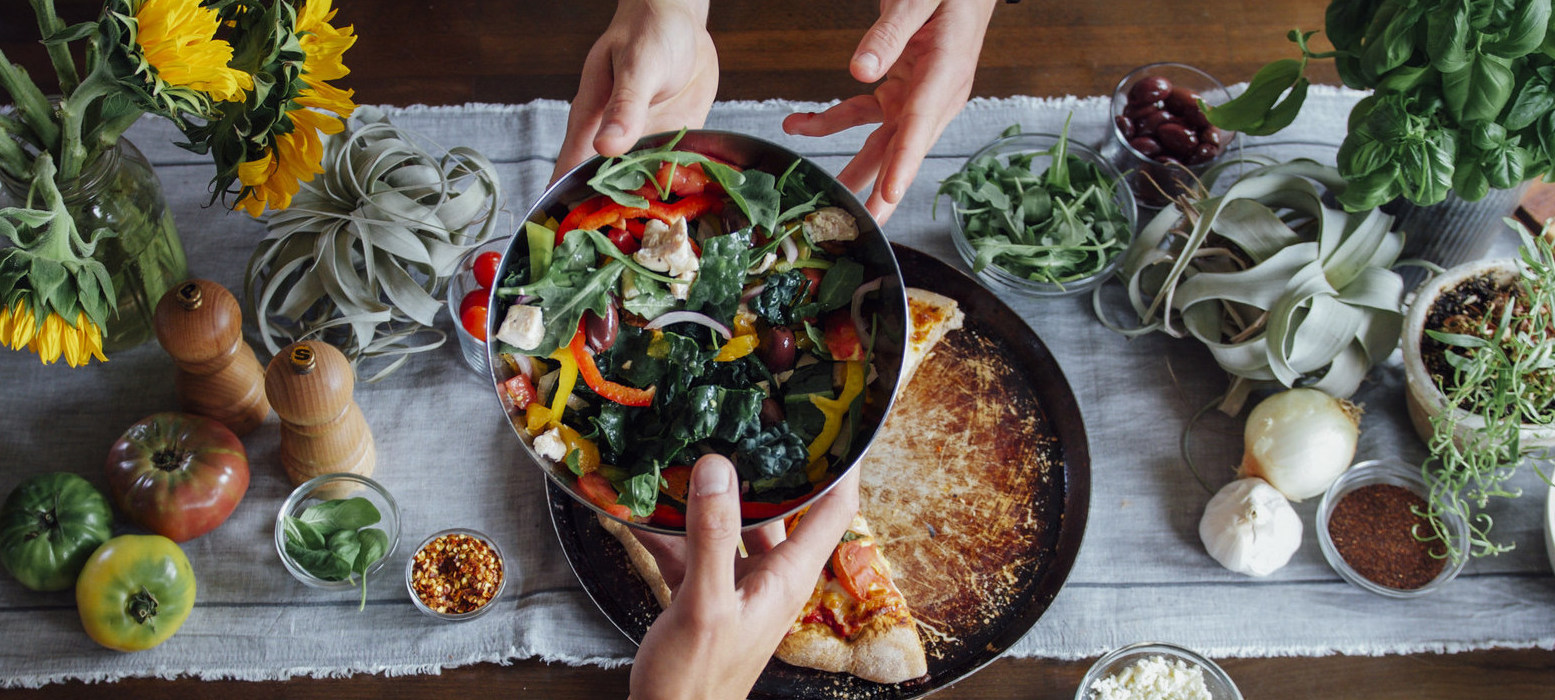
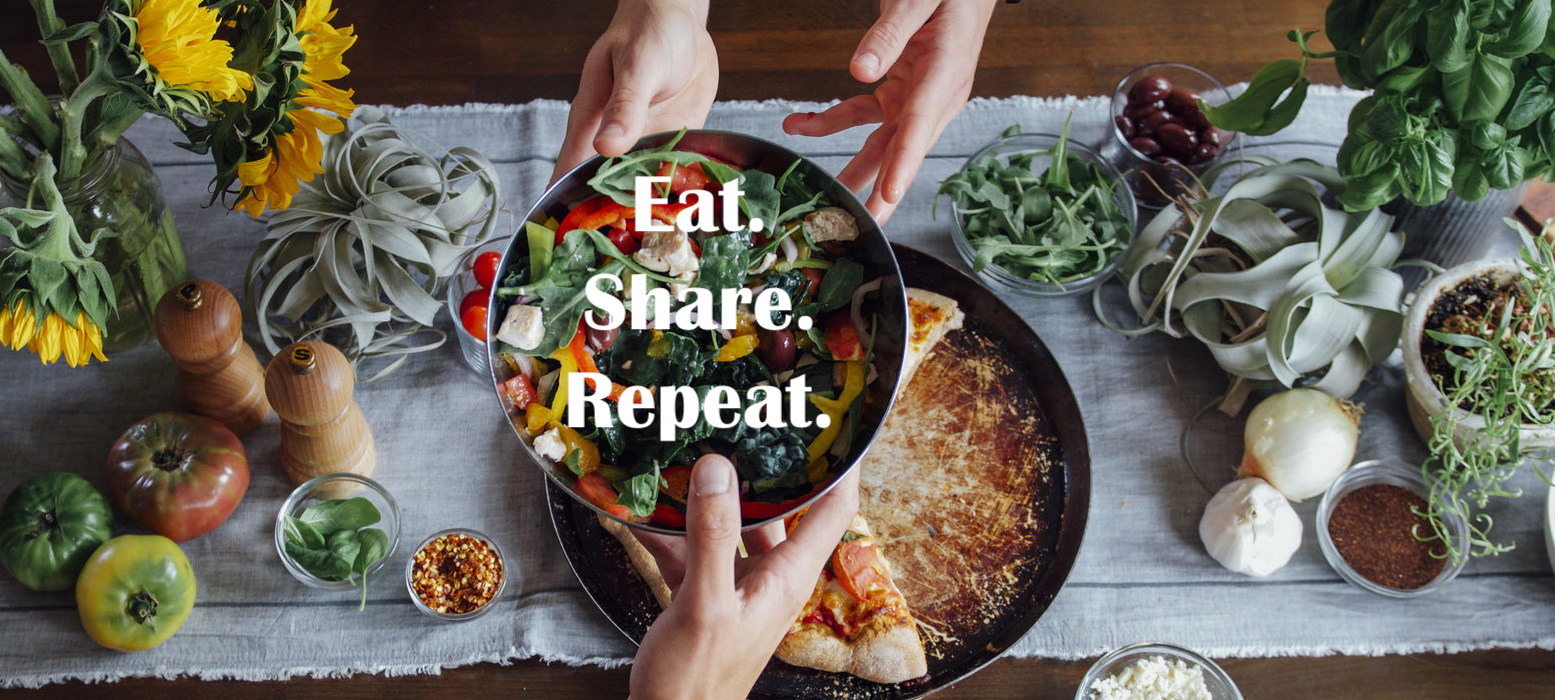
added text to Index page, modified image

Changed region(s): [[0.3395, 0.51, 0.5556, 0.63], [0.3704, 0.39, 0.5248, 0.48], [0.4013, 0.24, 0.4939, 0.33]]

diff --git a/app/assets/stylesheets/application.scss b/app/assets/stylesheets/application.scss
@@ -21,6 +21,17 @@
     max-width:100%;
     max-height:100%;
     background: image-url("home-bg2.jpg");
-    background-color: rgba(255, 255, 255, 0.4);
+    background-color: rgba(255, 255, 255, 0.25);
     background-blend-mode: lighten;
 } 
+
+.col-md-4x {
+    text-align: center;
+    flex: 0 0 33.33333%;
+    max-width: 33.33333%;
+}
+
+.home-text {
+	text-align: justify !important;
+    margin: 10px !important;
+}
